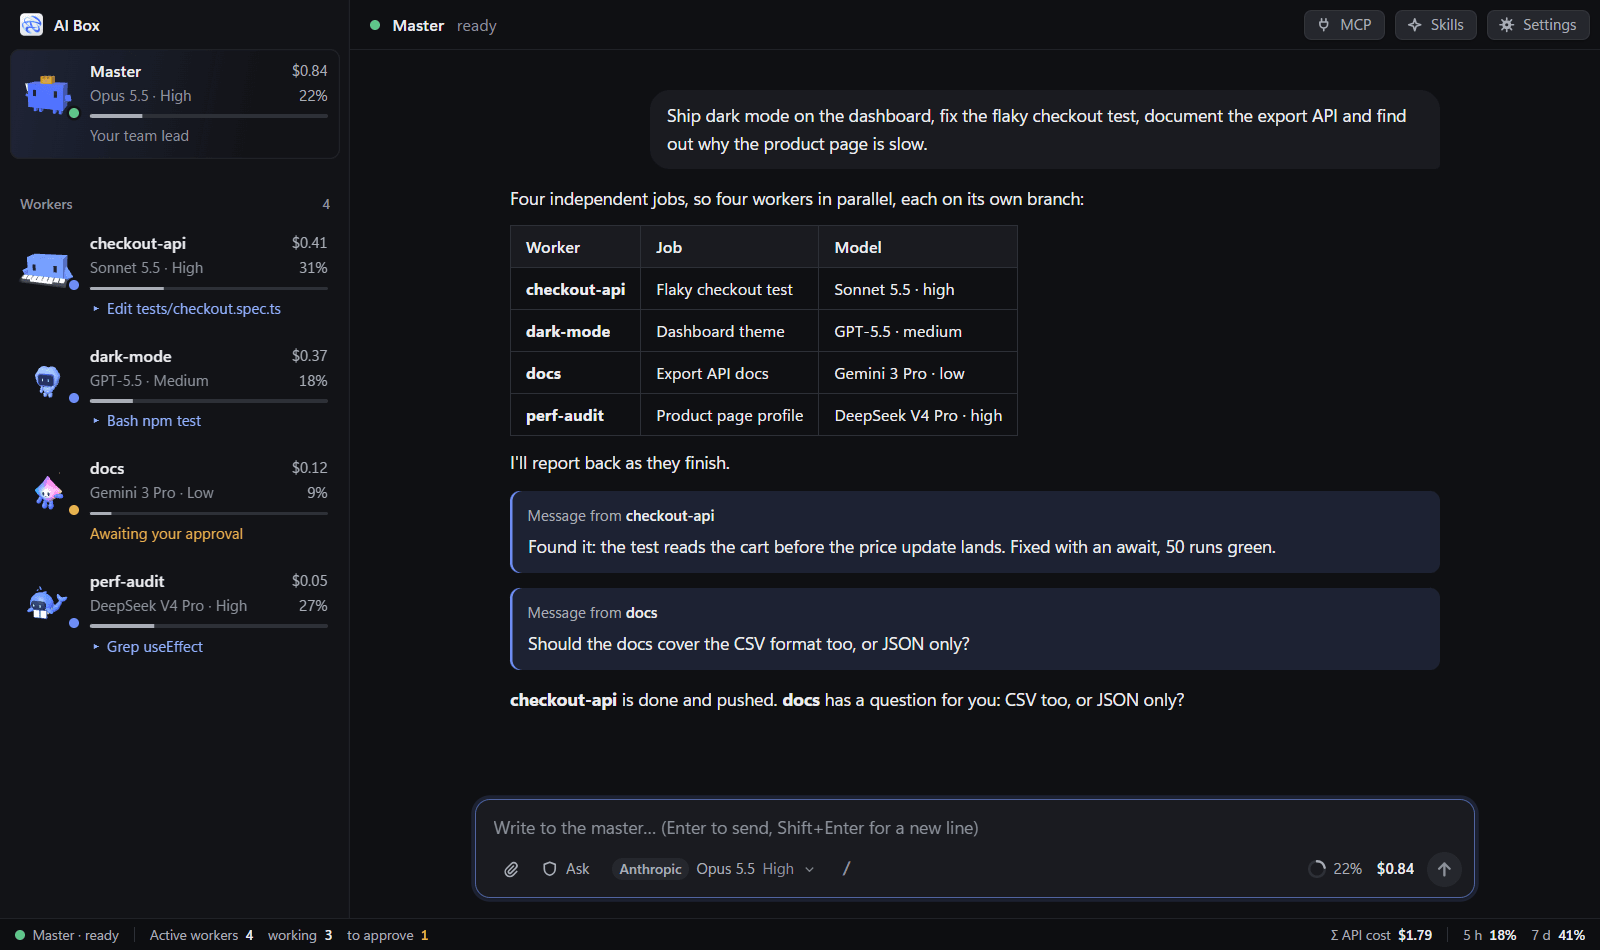
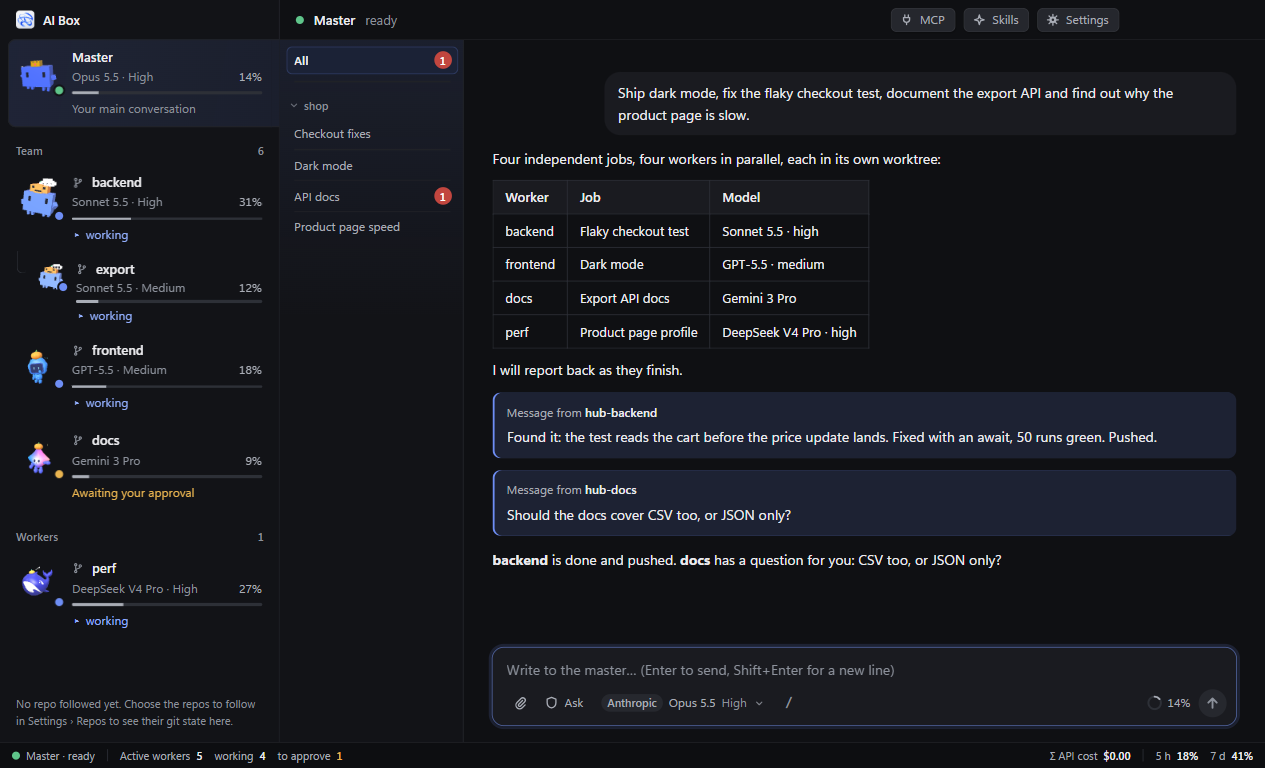
Rewrite the README around the master and its team, with captures of the current UI
Same order as the presentation video: master and workers, instances in
worktrees, topics, light master context, model and effort per mission, Git/MCP/skills,
then providers. Captures come from npm run ui with fake sessions; the old
mascot GIF (previous DeepSeek whale) is replaced by a short demo GIF.

diff --git a/README.md b/README.md
@@ -2,8 +2,8 @@
 
 <h1 align="center">AI Box</h1>
 
-<p align="center"><b>One chat. A whole team of AI coders, from any provider.</b><br>
-Talk to one master agent: it splits the work, runs workers in parallel and reports back.</p>
+<p align="center"><b>One chat. A whole team.</b><br>
+You talk to one master. It delegates to workers that run in parallel, and reports back.</p>
 
 <p align="center">
   <img alt="Windows · macOS · Linux" src="https://img.shields.io/badge/Windows%20·%20macOS%20·%20Linux-0d1117?style=flat-square">
@@ -11,36 +11,37 @@ Talk to one master agent: it splits the work, runs workers in parallel and repor
   <a href="LICENSE"><img alt="MIT license" src="https://img.shields.io/badge/license-MIT-2ea043?style=flat-square"></a>
 </p>
 
-<p align="center"><img src="docs/readme/mascots.gif" width="820" alt="The four mascots, Claude, Codex, Gemini and DeepSeek, typing, waving a flag, jumping and dancing"></p>
+<p align="center"><img src="docs/readme/demo.gif" width="900" alt="One request to the master; four workers start in parallel, each on its own branch; their reports and a question come back, filed by topic"></p>
 
-<p align="center"><img src="docs/readme/app.png" width="900" alt="The master plans four jobs; four workers on Claude, GPT, Gemini and DeepSeek run them in parallel"></p>
+## How it works
 
-## Why AI Box
+**1. You talk to the master, it runs the team.** Describe what you want. The master writes a brief per job, starts the workers, reads their reports, answers their questions and validates their work in your place. You are only called when it needs you.
 
-| | |
-|---|---|
-| 👑 **A master that runs the show** | Say what you want. It writes a brief per job, starts the workers, answers their questions and sums up for you. |
-| ⚡ **Workers in parallel** | Each one in its own repo, or its own git worktree and branch: they never step on each other. |
-| 🔌 **Any provider, side by side** | Claude, Codex, Gemini and DeepSeek in the same team. Hit a limit? The work moves to your next account. |
-| 🎯 **The right model for each job** | The master picks model and effort by difficulty, among the ones you allow. Cost and context are on every card. |
-| 🧑🤝🧑 **A permanent team** | Backend, frontend, QA, docs, or your own posts: they keep their memory and sleep when idle. |
-| 🗂 **Topics** | The master's chat is filed by topic, with a badge where it waits for your answer. |
-| 🧩 **MCP, Skills and one-click updates** | Manage MCP servers and skills from the app, update each provider's CLI in one click. AI Box rebuilds itself on start after an update. |
+**2. Permanent and one-off workers.** A *post* (backend, frontend, QA, docs, or your own) is a permanent worker: it keeps its memory from one mission to the next and sleeps when idle. One-off workers cover the rest. Posts can be put in a *group* under a lead that drives them and reports to the master.
 
-## A mascot for every agent
+**3. One post, several instances.** A mission that splits into independent jobs runs on several instances of the same post at once, each in its own git worktree and branch: they never step on each other.
 
-Every session gets its provider's 3D mascot, **Clawd**, **Codex**, **Gemini** or **DeepSeek**, that shows what it is doing: typing, searching, thinking, waiting for you, celebrating, sleeping, or knocked out by an error. The master wears a crown, and the team dresses up for Halloween, Christmas and New Year.
+<p align="center"><img src="docs/readme/team.png" width="760" alt="Settings › Team: the posts, their groups and the instances per post"></p>
 
-## Providers
+**4. A chat filed by topic.** The master's conversation is split into topics, grouped by repo. A badge shows the ones where it is waiting for your answer.
 
-| Provider | Runs on | Sign in |
-|---|---|---|
-| **Anthropic** | Claude Code | Claude account or API key |
-| **OpenAI** | Codex | ChatGPT account or API key |
-| **Google** | Gemini CLI | Google account or API key |
-| **DeepSeek** | Claude Code | API key |
+**5. A master that stays light.** It orchestrates and produces nothing: it cannot edit files, only brief and route. The work, and its context, stays in the workers, so the master keeps its head across long days.
 
-AI Box never sees your passwords: accounts sign in through each provider's own CLI, and API keys are stored encrypted by your OS.
+**6. The right model, the right effort.** For each mission the master picks the model and the effort from its difficulty, among the models you allow and up to the effort you cap. A choice you make on a post or on a worker always wins.
+
+<p align="center"><img src="docs/readme/models.png" width="300" alt="The model menu: provider, model and effort"></p>
+
+**7. Git, MCP and skills, built in.** A git panel per repo (graph, branches, commit, push) and automatic worktrees. Manage your MCP servers and skills from the **MCP** and **Skills** buttons, and update each provider's CLI in one click.
+
+**8. A simple, consistent UI.** One window: the master, its team, its topics. Light and dark, English and French. Every session wears the mascot of its provider and shows what it is doing.
+
+**Any provider, side by side.** Claude, Codex, Gemini and DeepSeek can work in the same team, on your accounts or API keys. Hit a limit? The work can move to your next account.
+
+<p align="center"><img src="docs/readme/providers.png" width="560" alt="Settings › Accounts: Anthropic, OpenAI, DeepSeek and Gemini, each with its mascot"></p>
+
+## What you get
+
+More time. Everything in parallel. Peace of mind.
 
 ## Quick start
 
@@ -53,10 +54,12 @@ npm install
 npm start
 ```
 
-A short setup asks for your language, your providers and the folders that hold your repos. Updates then arrive in one click.
+A short setup asks for your language, your providers and the folders that hold your repos. AI Box then updates itself in one click.
+
+To build an installer: `npm run dist`. Before a merge: `npm run typecheck`, `npm test` and `npm run build` must be green.
 
 > [!WARNING]
-> Agents act as you: they read and change files and run commands, within the permission mode you choose. Only send them into repos you trust. AI Box has no telemetry.
+> Agents act as you: they read and change files and run commands, within the permission mode you choose. Only send them into repos you trust. AI Box has no telemetry, never sees your passwords (accounts sign in through each provider's own CLI) and stores API keys encrypted by your OS.
 
 ## License
 
